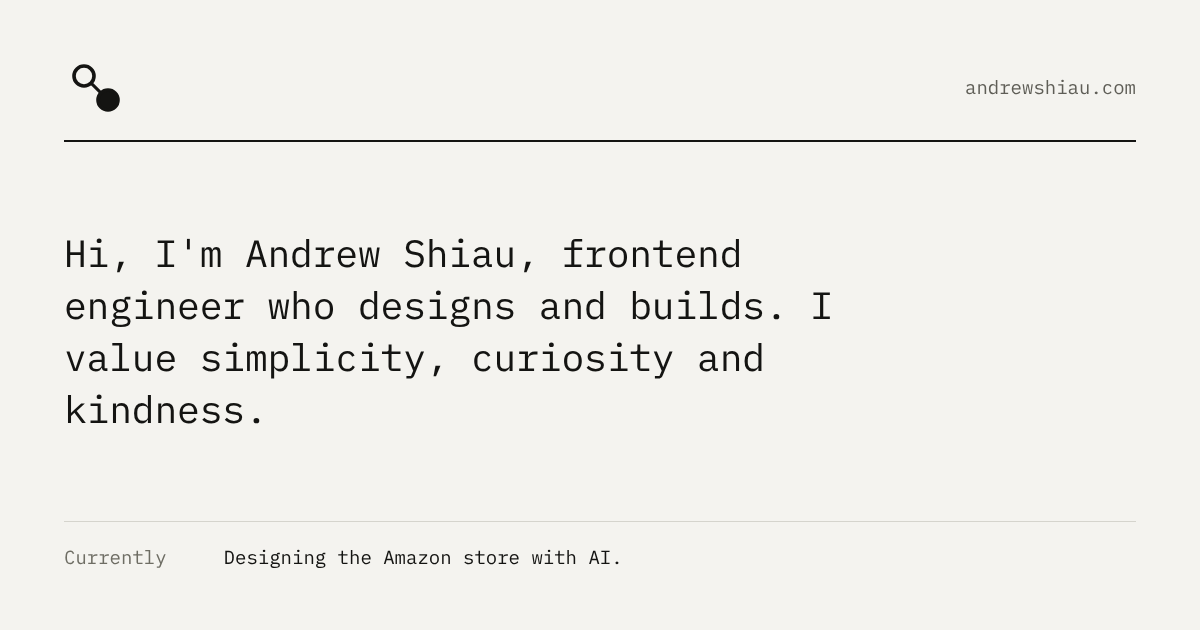
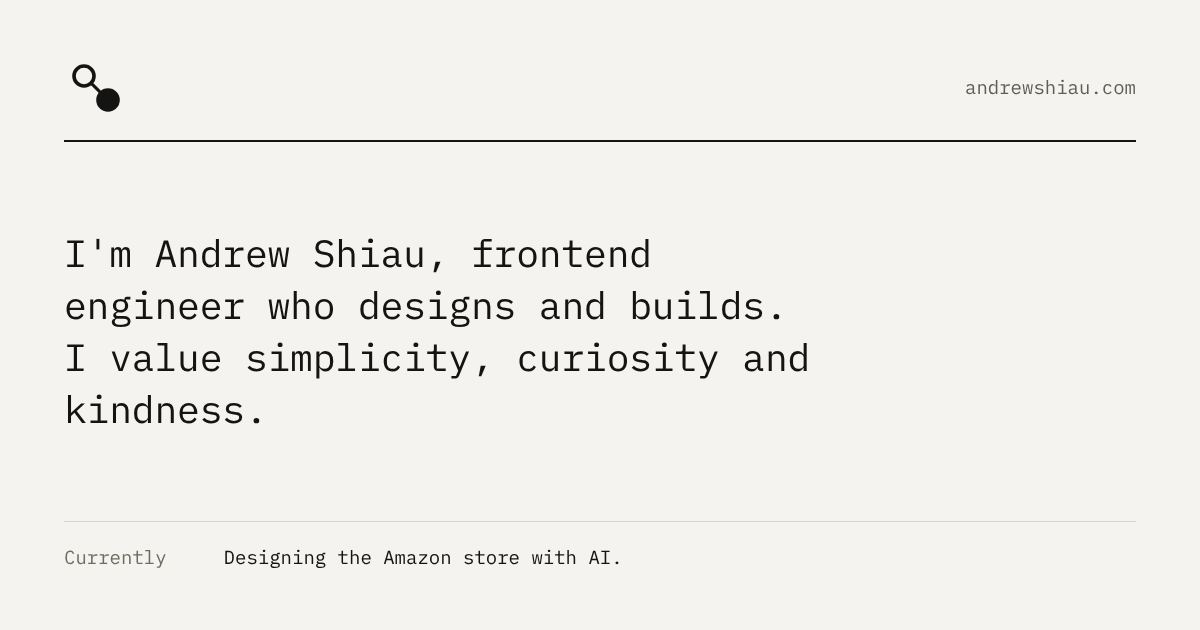
index: drop "Hi," from the h1
Owner call: the greeting read as chatbot. "I value" is bound with &nbsp;
so desktop breaks at the sentence (it left "I" ending line 1, 61 of 62ch).
og.png re-shot; og:image:alt updated.

Changed region(s): [[0.0308, 0.5429, 0.6783, 0.6032], [0.0308, 0.3619, 0.6167, 0.4222], [0.6783, 0.4524, 0.7092, 0.5127]]

diff --git a/tools/og-card.html b/tools/og-card.html
@@ -128,7 +128,7 @@
     </div>
 
     <!-- The index's h1, verbatim. Asserted against src/pages/index.astro by og-shoot.py. -->
-    <h1 class="say">Hi, I'm Andrew Shiau, frontend engineer who designs and builds. I value
+    <h1 class="say">I'm Andrew Shiau, frontend engineer who designs and builds. I&nbsp;value
       simplicity, curiosity and kindness.</h1>
 
     <!-- The `Currently` row from the index panel, verbatim. Also asserted. -->
